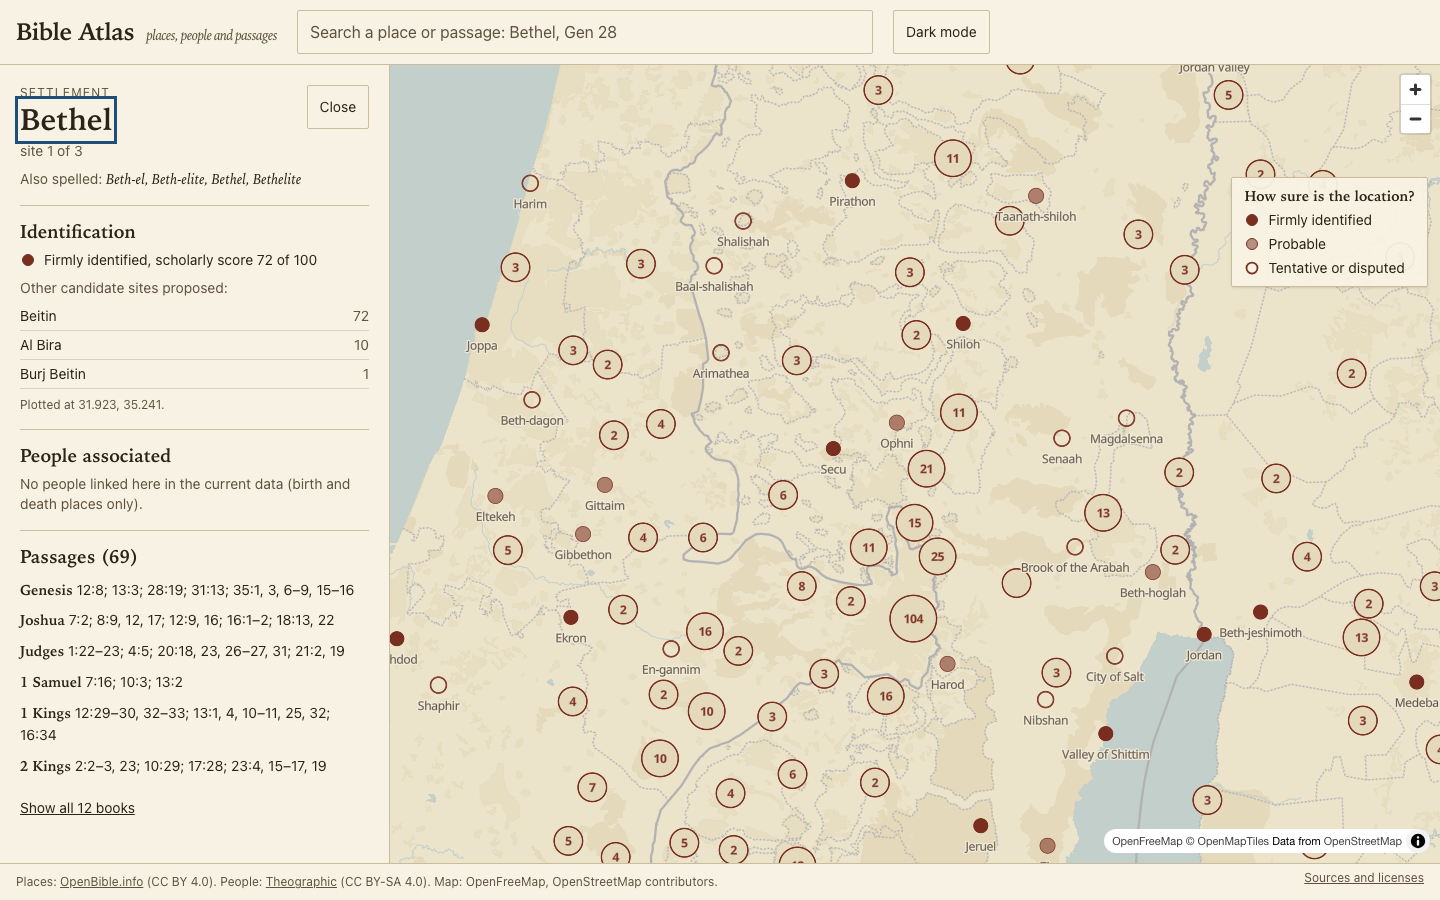
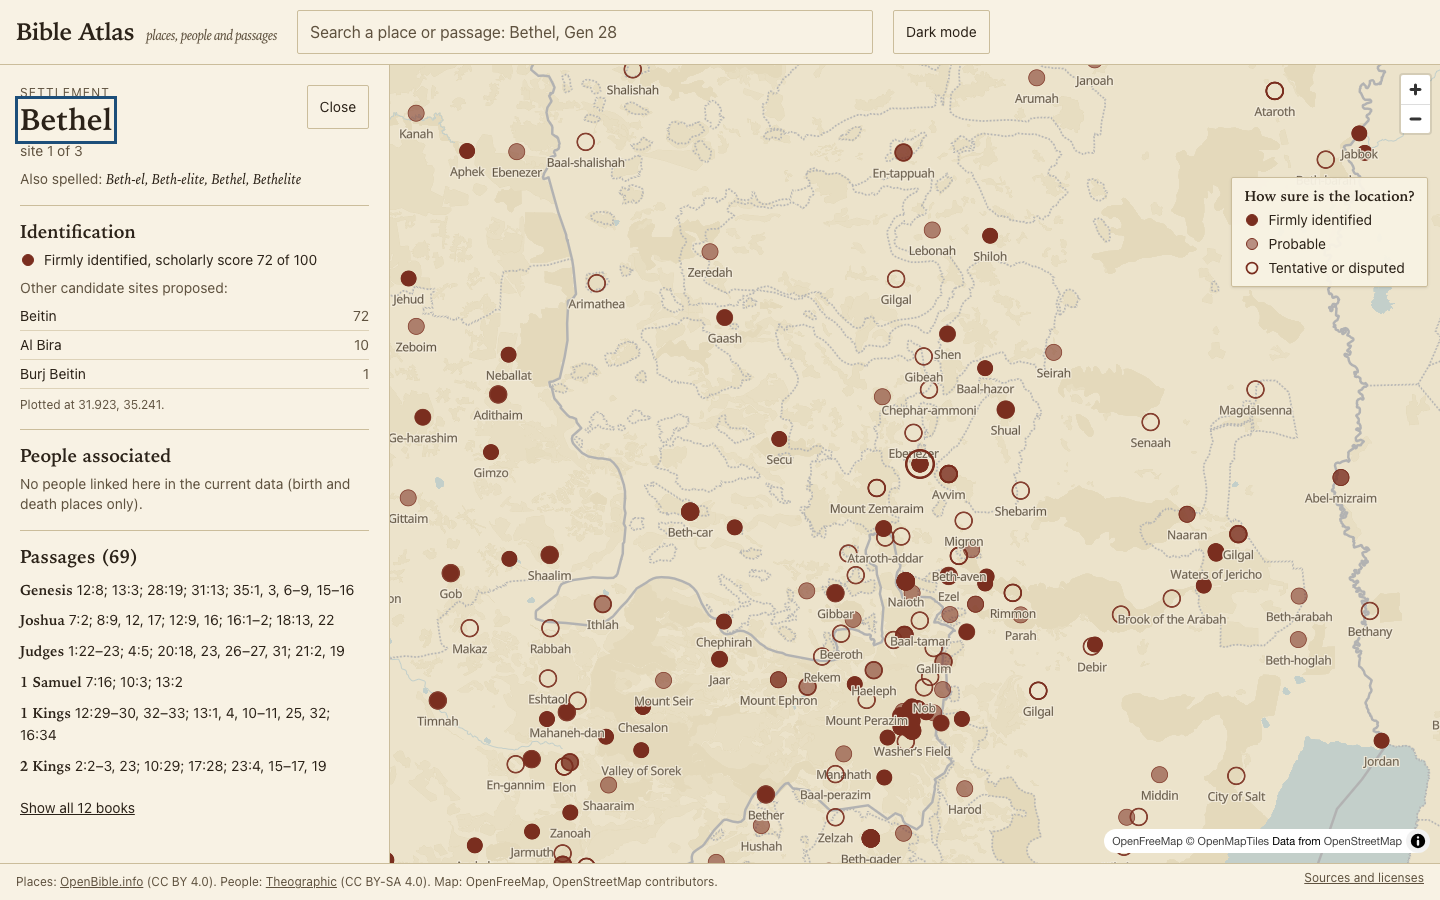
fix: frame the selected place at zoom 10 or higher, clear of the panel (#2)
Applies to deep links and clicks, honors prefers-reduced-motion. Also ignore .env.local.

diff --git a/src/components/MapView.tsx b/src/components/MapView.tsx
@@ -59,6 +59,16 @@ function toGeoJSON(places: Place[]) {
   };
 }
 
+/** Center a place at zoom >= 10 (above every tier gate, so it is unclustered), clear of the panel. */
+function goTo(m: MlMap, places: Place[], id: string, pad: { bottomPad: number; leftPad: number }) {
+  const p = places.find((x) => x.id === id);
+  if (!p) return;
+  const reduce = matchMedia("(prefers-reduced-motion: reduce)").matches;
+  const opts = { center: p.ll, zoom: Math.max(m.getZoom(), 10), offset: [pad.leftPad / 2, -pad.bottomPad / 2] as [number, number] };
+  if (reduce) m.jumpTo({ center: opts.center, zoom: opts.zoom }), m.panBy([-opts.offset[0], -opts.offset[1]], { duration: 0 });
+  else m.easeTo({ ...opts, duration: 700 });
+}
+
 interface Props {
   places: Place[];
   selectedId: string | null;
@@ -73,8 +83,9 @@ interface Props {
 export default function MapView({ places, selectedId, theme, onSelect, focus, bottomPad, leftPad }: Props) {
   const el = useRef<HTMLDivElement>(null);
   const map = useRef<MlMap | null>(null);
-  const live = useRef({ places, selectedId, onSelect, theme });
-  live.current = { places, selectedId, onSelect, theme };
+  const live = useRef({ places, selectedId, onSelect, theme, focus });
+  live.current = { places, selectedId, onSelect, theme, focus };
+  const ready = useRef(false);
   const padRef = useRef({ bottomPad, leftPad });
   padRef.current = { bottomPad, leftPad };
 
@@ -84,7 +95,6 @@ export default function MapView({ places, selectedId, theme, onSelect, focus, bo
       setWorkerUrl(new URL("/maplibre/maplibre-gl-worker.mjs", window.location.origin).href);
       const style = await getStyle(live.current.theme);
       if (cancelled || !el.current) return;
-      const start = live.current.places.find((x) => x.id === live.current.selectedId);
       const m = new MlMap({
         container: el.current,
         style,
@@ -95,7 +105,8 @@ export default function MapView({ places, selectedId, theme, onSelect, focus, bo
         dragRotate: false,
       });
       map.current = m;
-      if (start) m.easeTo({ center: start.ll, zoom: 9.3, offset: [padRef.current.leftPad / 2, -padRef.current.bottomPad / 2], duration: 0 });
+      // deep link: frame the selected place once the map is ready
+      m.once("load", () => { ready.current = true; const f = live.current.focus; if (f) goTo(m, live.current.places, f.id, padRef.current); });
       m.touchZoomRotate.disableRotation();
       m.addControl(new NavigationControl({ showCompass: false }), "top-right");
       m.addControl(new AttributionControl({ compact: true }), "bottom-right");
@@ -161,7 +172,7 @@ export default function MapView({ places, selectedId, theme, onSelect, focus, bo
         m.on("mouseleave", l, () => (m.getCanvas().style.cursor = ""));
       }
     })();
-    return () => { cancelled = true; map.current?.remove(); map.current = null; };
+    return () => { cancelled = true; ready.current = false; map.current?.remove(); map.current = null; };
   }, []);
 
   // theme switch: swap style (layers are re-added on style.load)
@@ -178,11 +189,9 @@ export default function MapView({ places, selectedId, theme, onSelect, focus, bo
   }, [selectedId]);
 
   useEffect(() => {
-    if (!focus || !map.current) return;
-    const p = live.current.places.find((x) => x.id === focus.id);
-    if (!p) return;
-    const { bottomPad: b, leftPad: l } = padRef.current;
-    map.current.easeTo({ center: p.ll, zoom: Math.max(map.current.getZoom(), 9.3), offset: [l / 2, -b / 2], duration: 700 });
+    const m = map.current;
+    if (!focus || !m || !ready.current) return; // before load, the "load" handler above covers it
+    goTo(m, live.current.places, focus.id, padRef.current);
   }, [focus]);
 
   return <div className="absolute inset-0"><div ref={el} className="h-full w-full" role="application" aria-label="Map of biblical places. Use the search box or the list to choose a place." /></div>;

diff --git a/src/components/Atlas.tsx b/src/components/Atlas.tsx
@@ -12,7 +12,7 @@ const MapView = dynamic(() => import("./MapView"), { ssr: false, loading: () => 
 
 export default function Atlas({ places, people, initialId = null }: { places: Place[]; people: Person[]; initialId?: string | null }) {
   const [selected, setSelected] = useState<string | null>(initialId);
-  const [focus, setFocus] = useState<{ id: string; nonce: number } | null>(null);
+  const [focus, setFocus] = useState<{ id: string; nonce: number } | null>(initialId ? { id: initialId, nonce: 0 } : null);
   const [theme, setTheme] = useState<"light" | "dark">("light");
   const [wide, setWide] = useState(true);
 
